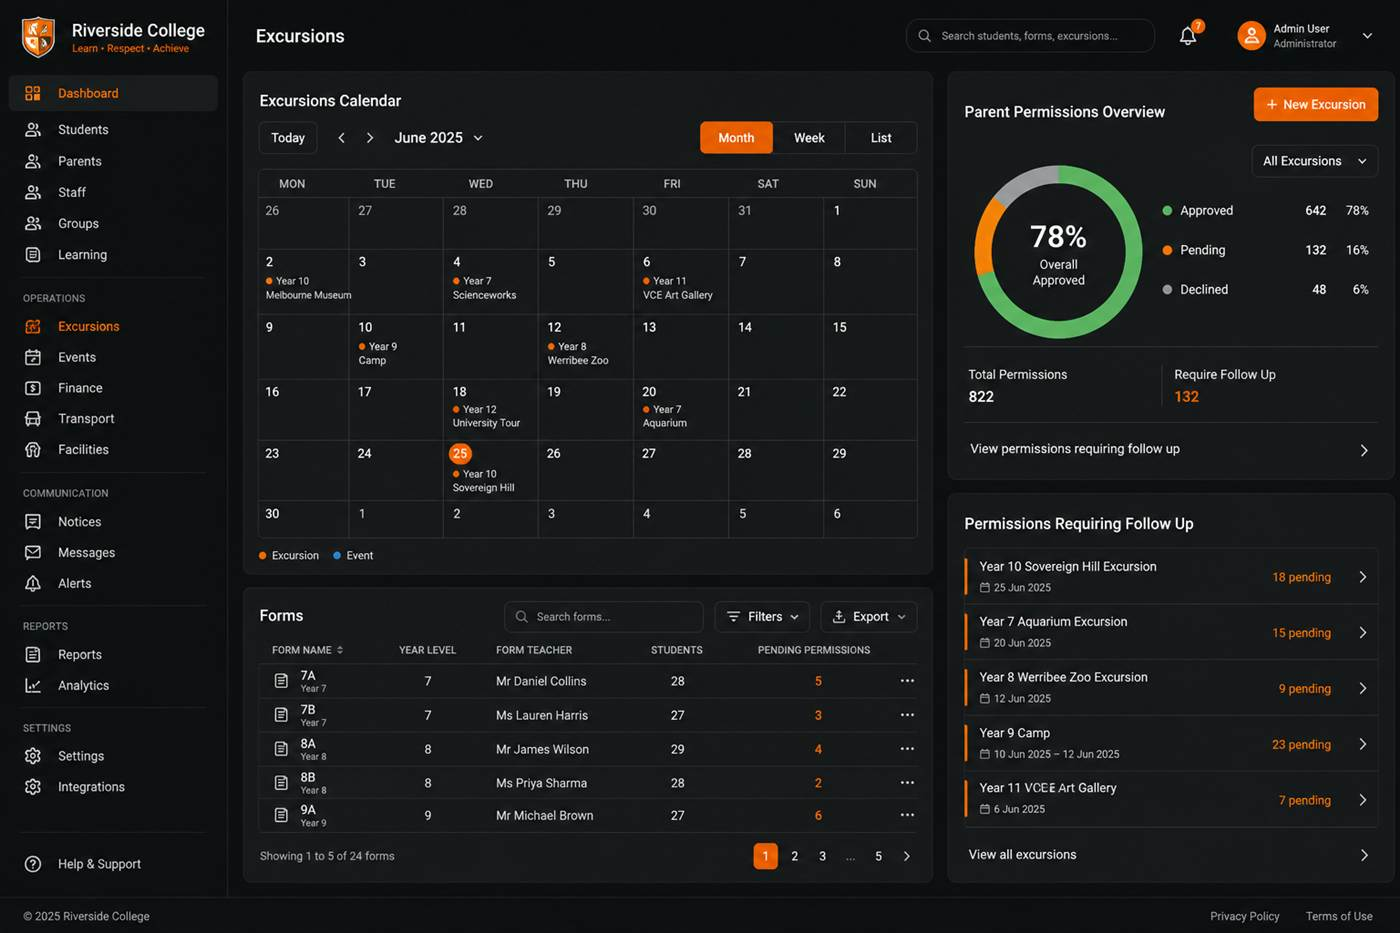
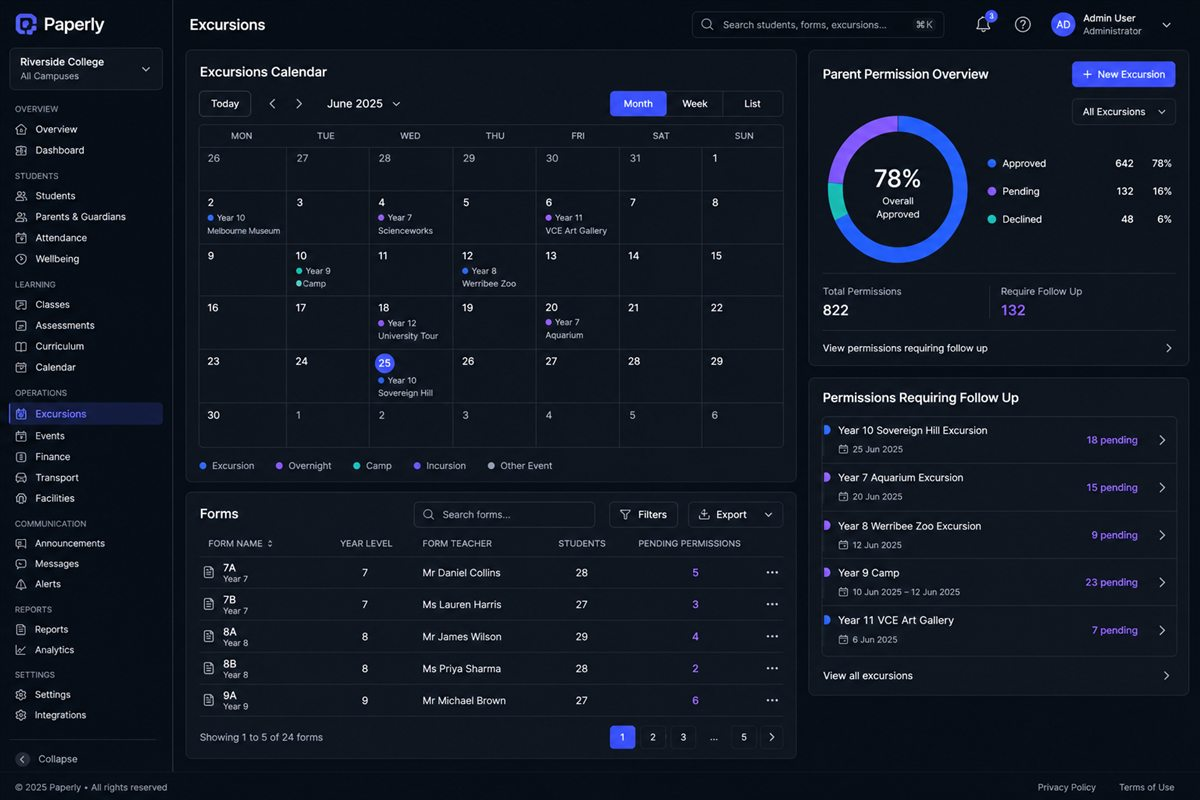
updated

diff --git a/case-studies/paperly.html b/case-studies/paperly.html
@@ -140,8 +140,8 @@ footer{border-top:1px solid var(--line);padding:24px 0 40px;font-size:12px;color
           <figcaption>Architecture — role portals, modular application core, SIS, identity and notifications</figcaption>
         </figure>
         <figure>
-          <img src="../projects/paperly.jpg" alt="Earlier Paperly school operations dashboard concept" width="1200" height="800" loading="lazy">
-          <figcaption>Operations overview — calendars, forms and permission follow-up</figcaption>
+          <img src="../projects/paperly.jpg" alt="Paperly operations dashboard with calendar, forms and permission tracking" width="1200" height="800" loading="lazy">
+          <figcaption>Operations overview — calendars, forms and permission follow-up in the current visual theme</figcaption>
         </figure>
       </div>
     </section>

diff --git a/index.html b/index.html
@@ -329,7 +329,7 @@ section[id]{scroll-margin-top:var(--nav-h)}
 .flag-arch span{display:inline-flex;align-items:center;gap:10px}
 .flag-arch b{font-weight:500;color:var(--ink);padding:7px 13px;border:1px solid var(--line);border-radius:var(--r-pill);background:rgba(255,255,255,.04)}
 .flag-arch i{font-style:normal;color:var(--purple)}
-.flag-media{border-radius:14px;overflow:hidden;aspect-ratio:16/11;border:1px solid var(--line);align-self:center}
+.flag-media{border-radius:14px;overflow:hidden;aspect-ratio:3/2;border:1px solid var(--line);align-self:center}
 .flag-media img{width:100%;height:100%;object-fit:cover;transition:transform .5s var(--ease)}
 .flag-media:hover img{transform:scale(1.05)}
 .work-link{display:inline-flex;align-items:center;gap:6px;margin-top:12px;color:var(--blue);font-size:15px;font-weight:500;transition:gap .2s}
